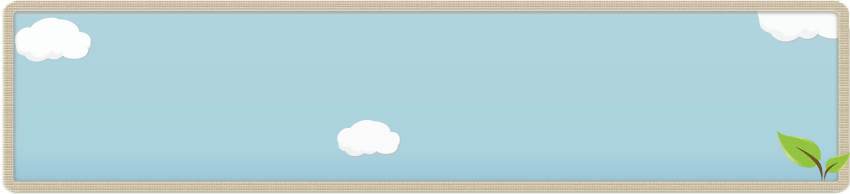
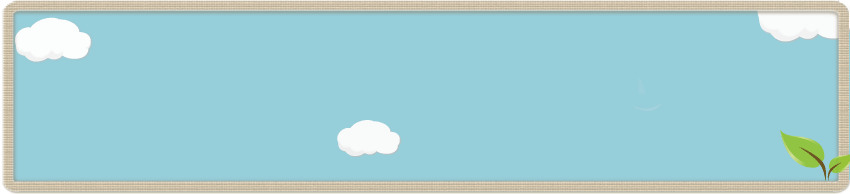
topの背景などの配色を微調整しました。(コントラストup)

Changed region(s): [[0.0, 0.0619, 1.0, 0.3402], [0.8871, 0.6804, 1.0, 0.9278]]

diff --git a/Partake/src/main/webapp/css/color.css b/Partake/src/main/webapp/css/color.css
@@ -11,15 +11,13 @@
     -webkit-border-radius: 5px; /* Safari,Chrome */
     -moz-border-radius: 5px; /* FireFox */
     behavior: url(border-radius.htc); /* forIE */
-	}
-	
+	}	
 /* drop shadow */	
 .sdw {
 	-moz-box-shadow: 2px 2px 2px #bcbcbc; /* firefox */
     -webkit-box-shadow: 2px 2px 2px #bcbcbc;/* Safari,Chrome */
     box-shadow: 2px 2px 2px #bcbcbc; /* CSS3 */
 	}
-
 
 /* ==================================================================
  * color layout
@@ -28,7 +26,7 @@
 
 body {
     color: #2a2a2a;
-    background: top left repeat-x #afd8e2;
+    background: top left repeat-x /*#afd8e2;*/#9AD5E2;
 }
 
 a:link {
@@ -37,15 +35,16 @@ a:link {
 }
 a:visited {
     color: #4F1F80;
-    text-decoration:none;
 }
 a:hover,a:active  {
     color: #000000;
 }
-
 #wrapper {
     color: inherit;
+    margin-bottom:5px;
     background: transparent;
+    background-color:#FEFEFE;
+    border:1px solid #dddddd;
     -moz-box-shadow: 1px 1px 15px #B8B8B8; /* firefox */
     -webkit-box-shadow: 1px 1px 15px #B8B8B8;/* Safari,Chrome */
     box-shadow: 1px 1px 15px #B8B8B8; /* CSS3 */
@@ -53,12 +52,12 @@ a:hover,a:active  {
 
 #header {
 	color: inherit;
-	background: transparent url(../images/back-top.png) no-repeat top;
+	/*background: transparent url(../images/back-top.png) no-repeat top;*/
 }
 
 #content {
     color: inherit;
-    background: transparent url(../images/back-middle.png) repeat-y bottom;
+    /*background: transparent url(../images/back-middle.png) repeat-y bottom;*/
 }
 
 .top-introduction {
@@ -316,11 +315,11 @@ a:hover,a:active  {
 	color: #A9A9A9;	
     background: inherit;
 }
-
+/*
 #footer {
-	background: transparent url(../images/back-bottom.png) no-repeat bottom
+	background: transparent url(../images/back-bottom.png) no-repeat bottom;
 }
-
+*/
 #footer ul {
     background: transparent;
 }

diff --git a/Partake/src/main/webapp/css/layout.css b/Partake/src/main/webapp/css/layout.css
@@ -357,10 +357,10 @@ border:0
 }
 #tab-wrapper {
 width:580px;
-height:/*620*/820px;
+height:755px;
 margin: 0 auto;
 text-align: left;
-padding-top:30px;
+padding-top:15px;
 }
 #tab-wrapper h2 {
 	color:#7c7c7c;
@@ -1114,7 +1114,7 @@ ul.actionMessage, ul.errorMessage, ul.warningMessage {
  */
 #footer {
     width: 880px;
-    padding: 0 10px 10px 10px;
+    padding: 0 10px 0px 10px;
     margin-bottom: 10px;
     clear: both;
     font-size: 80%;
@@ -1188,7 +1188,6 @@ h2 img {
     vertical-align:middle;
     margin-right:5px;
 	}
-
 h1 a:link, h1 a:visited, h1 a:hover, h1 a:active,
 h2 a:link, h2 a:visited, h2 a:hover, h2 a:active,
 h3 a:link, h3 a:visited, h3 a:hover, h3 a:active { 
